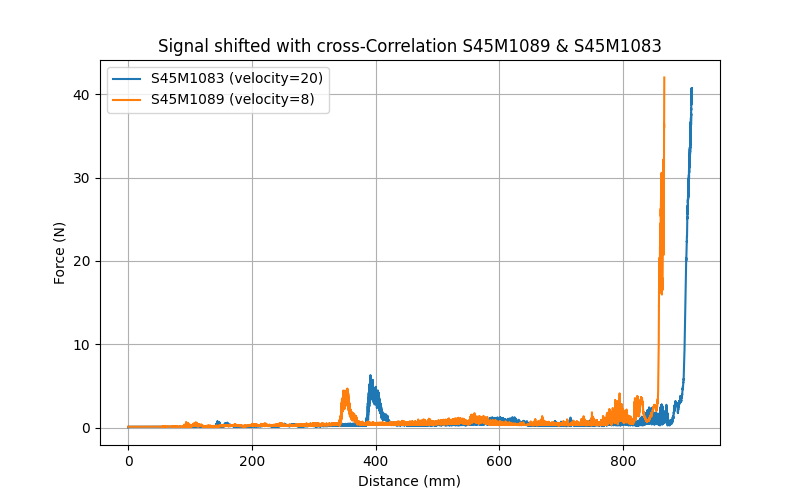
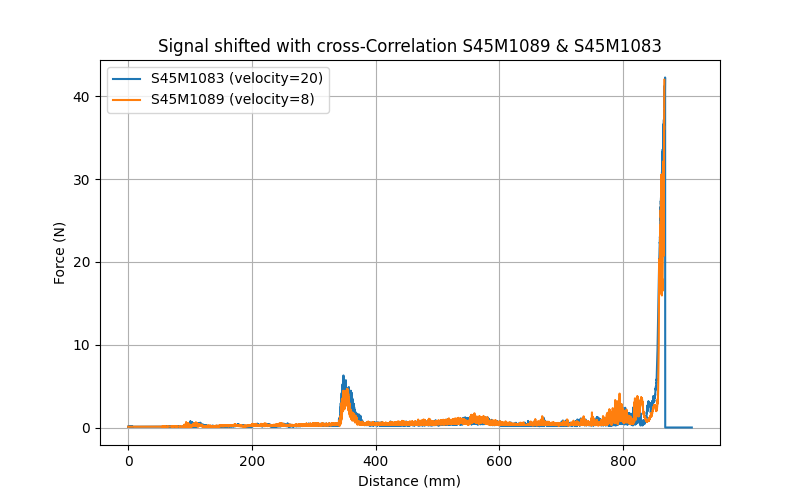
extended range for crosscorr

diff --git a/offset.py b/offset.py
@@ -17,8 +17,8 @@ def get_offset(df1, df2, name1, name2):
     """Calculate the offset between two profiles using cross-correlation."""
 
     #Cut dfs to apply autocorrelation - only use for offset method!
-    start = 100000
-    end = 200000 #100.000 values
+    start = 50000
+    end = 200000 #150.000 values
     df1_cut = df1.iloc[start:end]
     df2_cut = df2.iloc[start:end]
 
